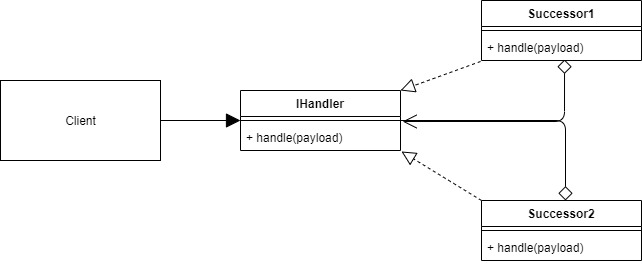
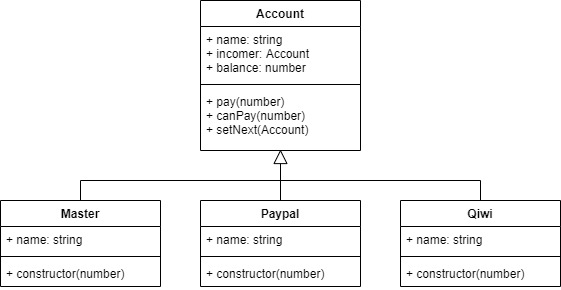
fix

diff --git a/Behavioral/ChainOfResposibility/chainofresposibility.ts b/Behavioral/ChainOfResposibility/chainofresposibility.ts
@@ -1,50 +1,57 @@
-interface IHandler {
-    
-    handle(payload: number): number
-}
+class Account {
+	name: string
+	incomer: Account
+	balance: number
 
-class Successor1 implements IHandler {
-    
-    handle(payload: number) {
-        console.log(`Successor1 payload = ${payload}`)
-        const test = Math.floor(Math.random() * 2) + 1
-        if (test === 1) {
-            payload += 1
-            payload = new Successor1().handle(payload)
-        } else {
-            payload -= 1
-            payload = new Successor2().handle(payload)
-        }
-        return payload
+	pay(orderPrice) {
+		if (this.canPay(orderPrice)) {
+			console.log(`Paid ${orderPrice} using ${this.name}`);
+		} else if (this.incomer) {
+			console.log(`Cannot pay using ${this.name}`);
+			this.incomer.pay(orderPrice)
+		} else {
+			console.log('Unfortunately, not enough money');
+		}
+	}
+
+	canPay(amount) {
+		return this.balance >= amount;
+	}
+
+	setNext(account) {
+		this.incomer = account;
+	}
+};
+
+class Master extends Account {
+	constructor(balance) {
+		super();
+		this.name = 'Master Card';
+		this.balance = balance;
+  }
+};
+
+class Paypal extends Account {
+	constructor(balance) {
+		super();
+		this.name = 'Paypal';
+		this.balance = balance;
     }
-}
+};
 
-class Successor2 implements IHandler {
-    
-    handle(payload: number) {
-        console.log(`Successor2 payload = ${payload}`)
-        const test = Math.floor(Math.random() * 3) + 1
-        if (test === 1) {
-            payload = payload * 2
-            payload = new Successor1().handle(payload)
-        } else if (test === 2) {
-            payload = payload / 2
-            payload = new Successor2().handle(payload)
-        } 
-        return payload
-    }
-}
+class Qiwi extends Account {
+	constructor(balance) {
+		super();
+		this.name = 'Qiwi';
+		this.balance = balance;
+	}
+};
 
-class Chain {
-    
-    start(payload: number) {
-        
-        return new Successor1().handle(payload)
-    }
-}
+const master = new Master(100);
+const paypal = new Paypal(200);
+const qiwi = new Qiwi(500);
 
-// The Client
-const CHAIN = new Chain()
-const PAYLOAD = 1
-const OUT = CHAIN.start(PAYLOAD)
-console.log(`Finished result = ${OUT}`)
+master.setNext(paypal);
+paypal.setNext(qiwi);
+
+master.pay(438);
